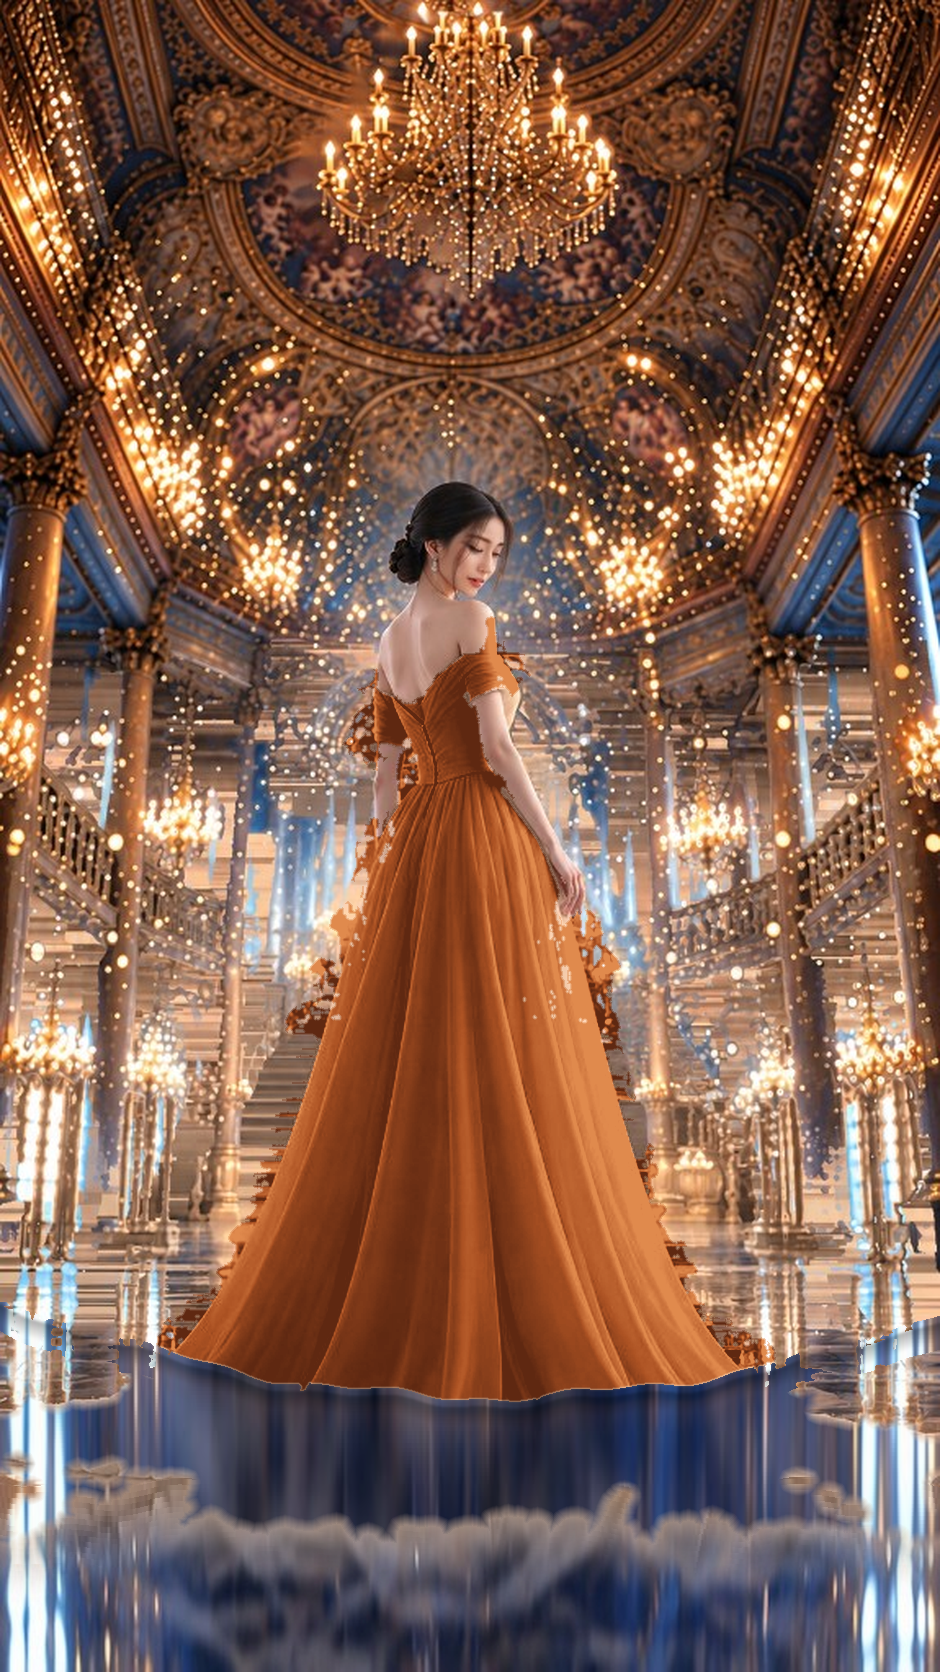
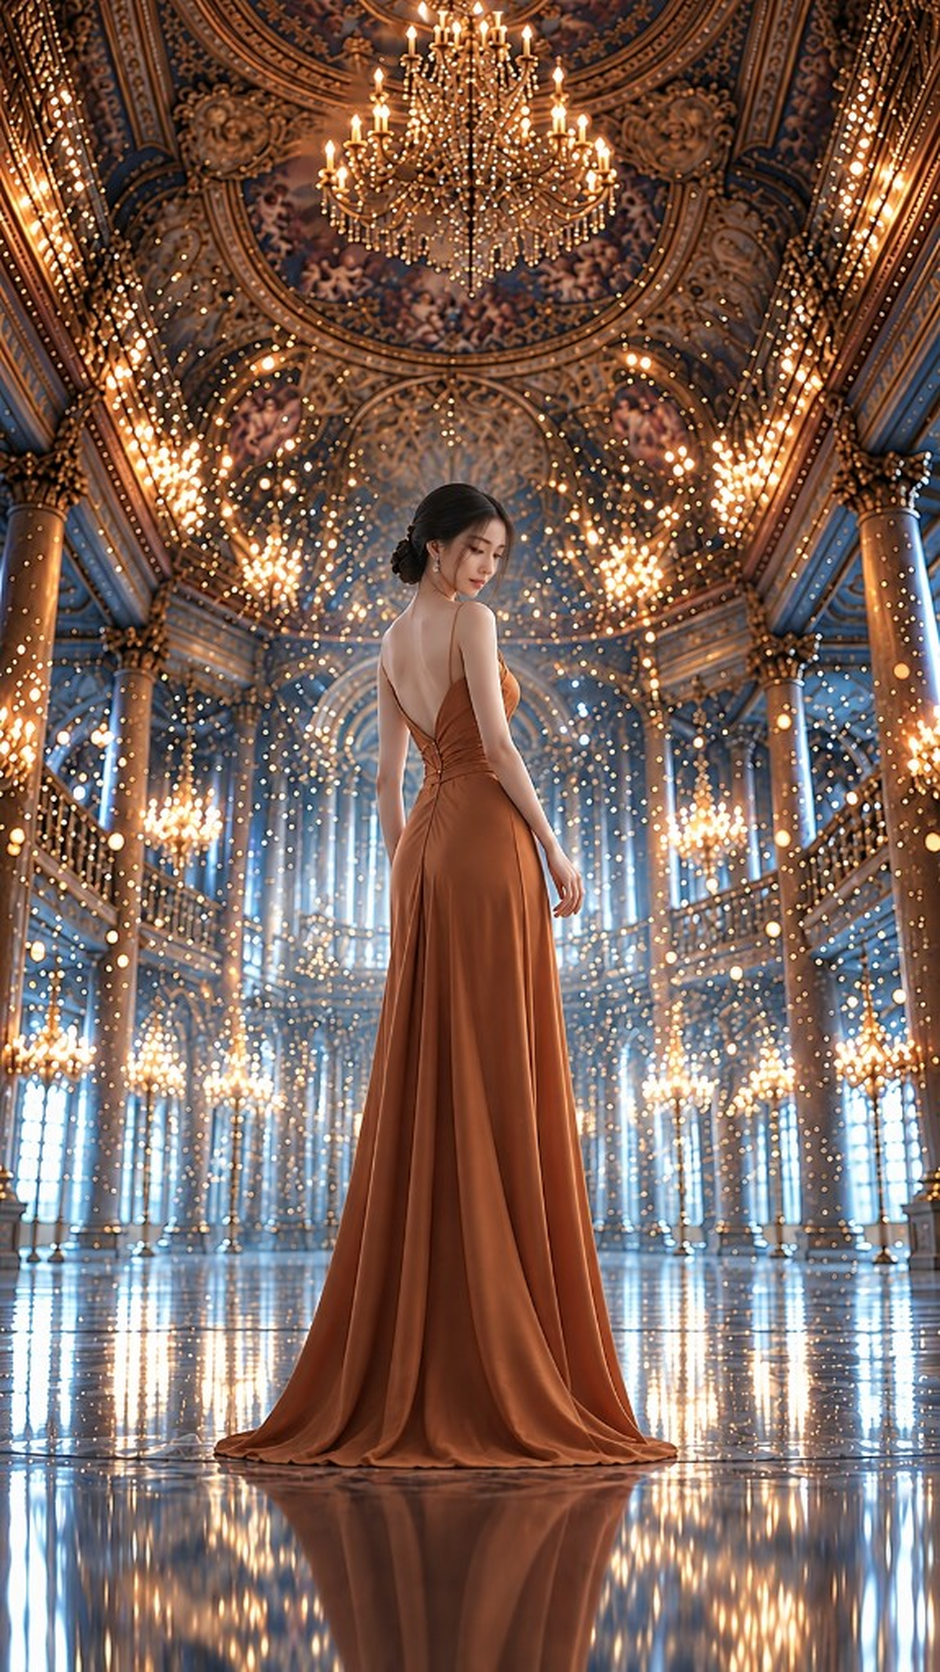
Point the countdown at 2:00 AM and use the new copper gown.

diff --git a/src/components/HeroBanner.tsx b/src/components/HeroBanner.tsx
@@ -24,9 +24,9 @@ const NAME_GLINTS = [
   { left: "12%", top: "78%", size: 15, delay: 1.8, duration: 2.2, gold: false },
 ];
 
-const GOWN_COPPER = "/assets/images/debut-gown-white.png?v=14";
+const GOWN_COPPER = "/assets/images/debut-gown-white.png?v=15";
 const GOWN_BLUE = "/assets/images/debut-gown-blue.png?v=15";
-export const GOWN_CHANGE_AT = new Date("2026-11-07T17:30:00").getTime();
+export const GOWN_CHANGE_AT = new Date("2026-10-02T02:00:00").getTime();
 const WIPE_SECONDS = 16;
 const GOWN_WIPE_MS = WIPE_SECONDS * 1000;
 const TIMEOUT_MAX = 2_147_483_647;

diff --git a/src/components/EventCountdown.tsx b/src/components/EventCountdown.tsx
@@ -92,7 +92,7 @@ function LiveClock({ now }: { now: Date }) {
 
 export default function EventCountdown() {
   // Guests arrive at 5:00 PM. The countdown runs to the 5:30 PM grand entry.
-  const eventDate = new Date("2026-11-07T17:30:00").getTime();
+  const eventDate = new Date("2026-10-02T02:00:00").getTime();
 
   const calculateTimeLeft = (nowMs: number): TimeLeft => {
     const difference = eventDate - nowMs;
